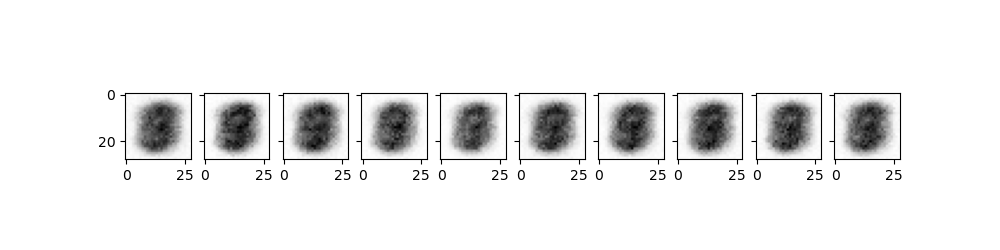
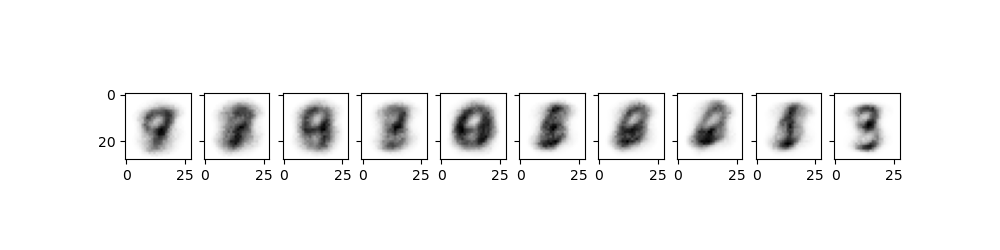
change batchsize to 32

diff --git a/VAE/train.py b/VAE/train.py
@@ -18,7 +18,7 @@ device = torch.device("cuda" if torch.cuda.is_available() else "cpu")
 input_dim = 784
 hidden_dim = 300
 num_epochs = 80
-batch_size = 128
+batch_size = 32
 lr = 1e-5
 
 # dataset loading
